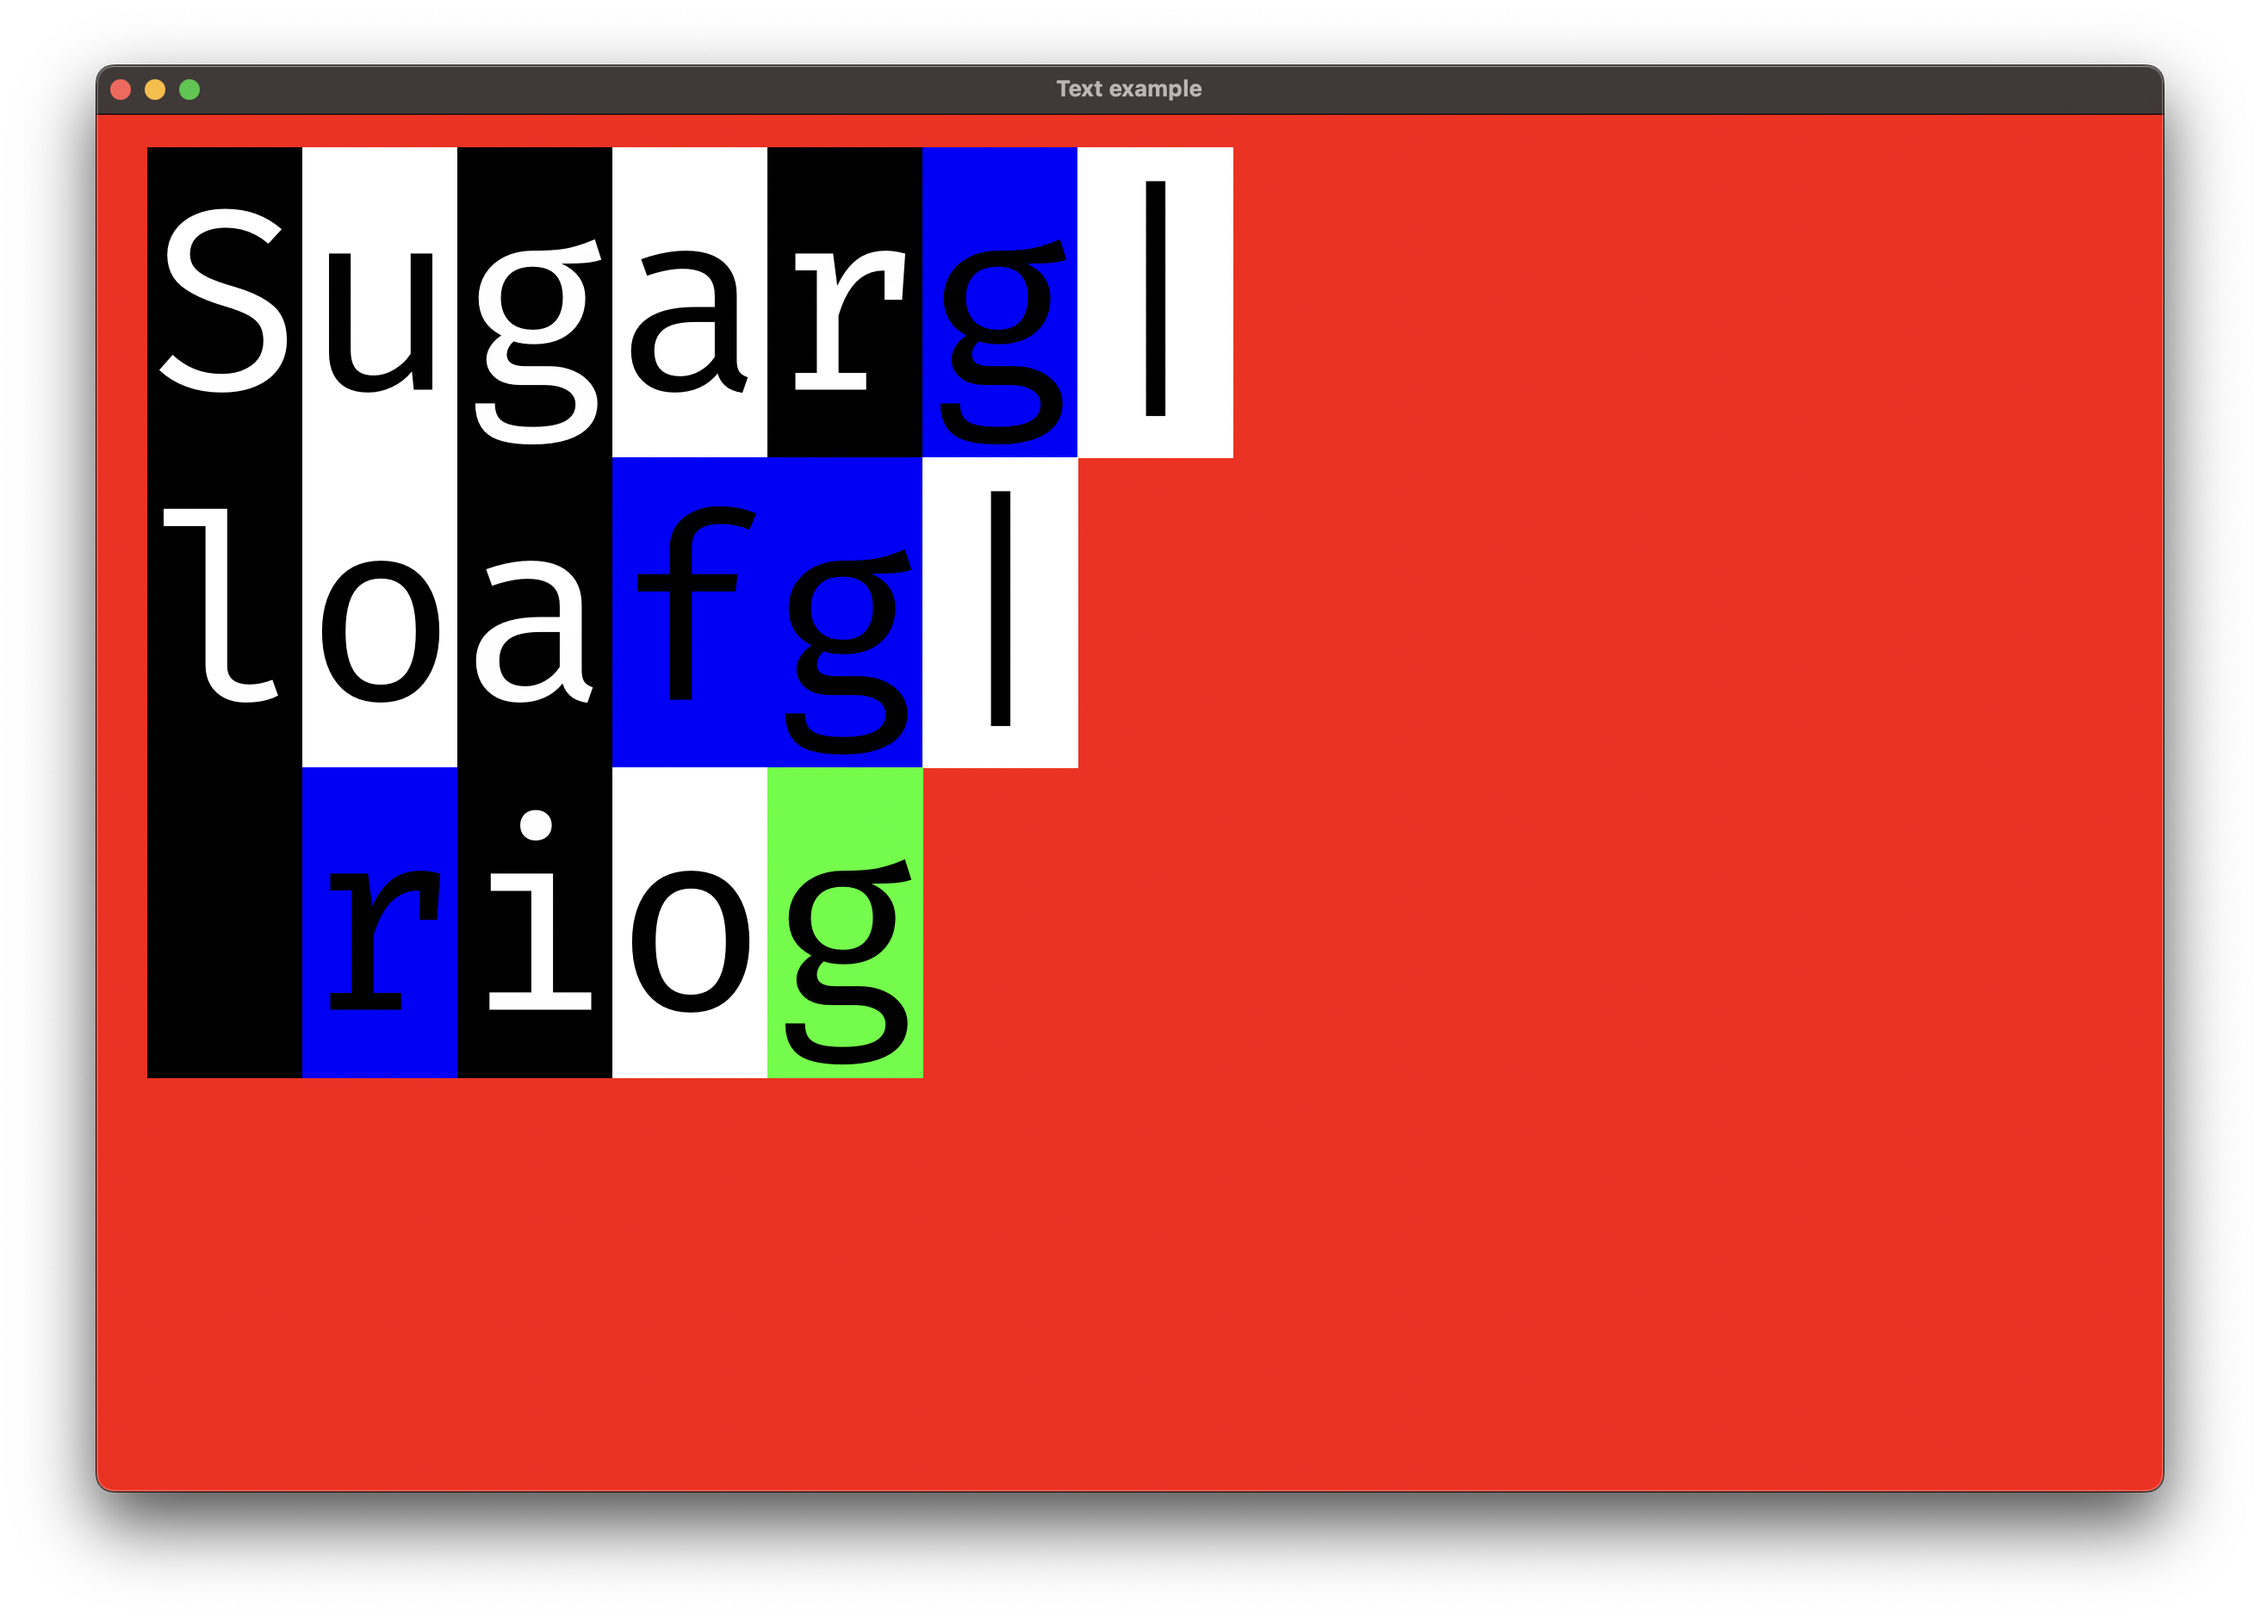
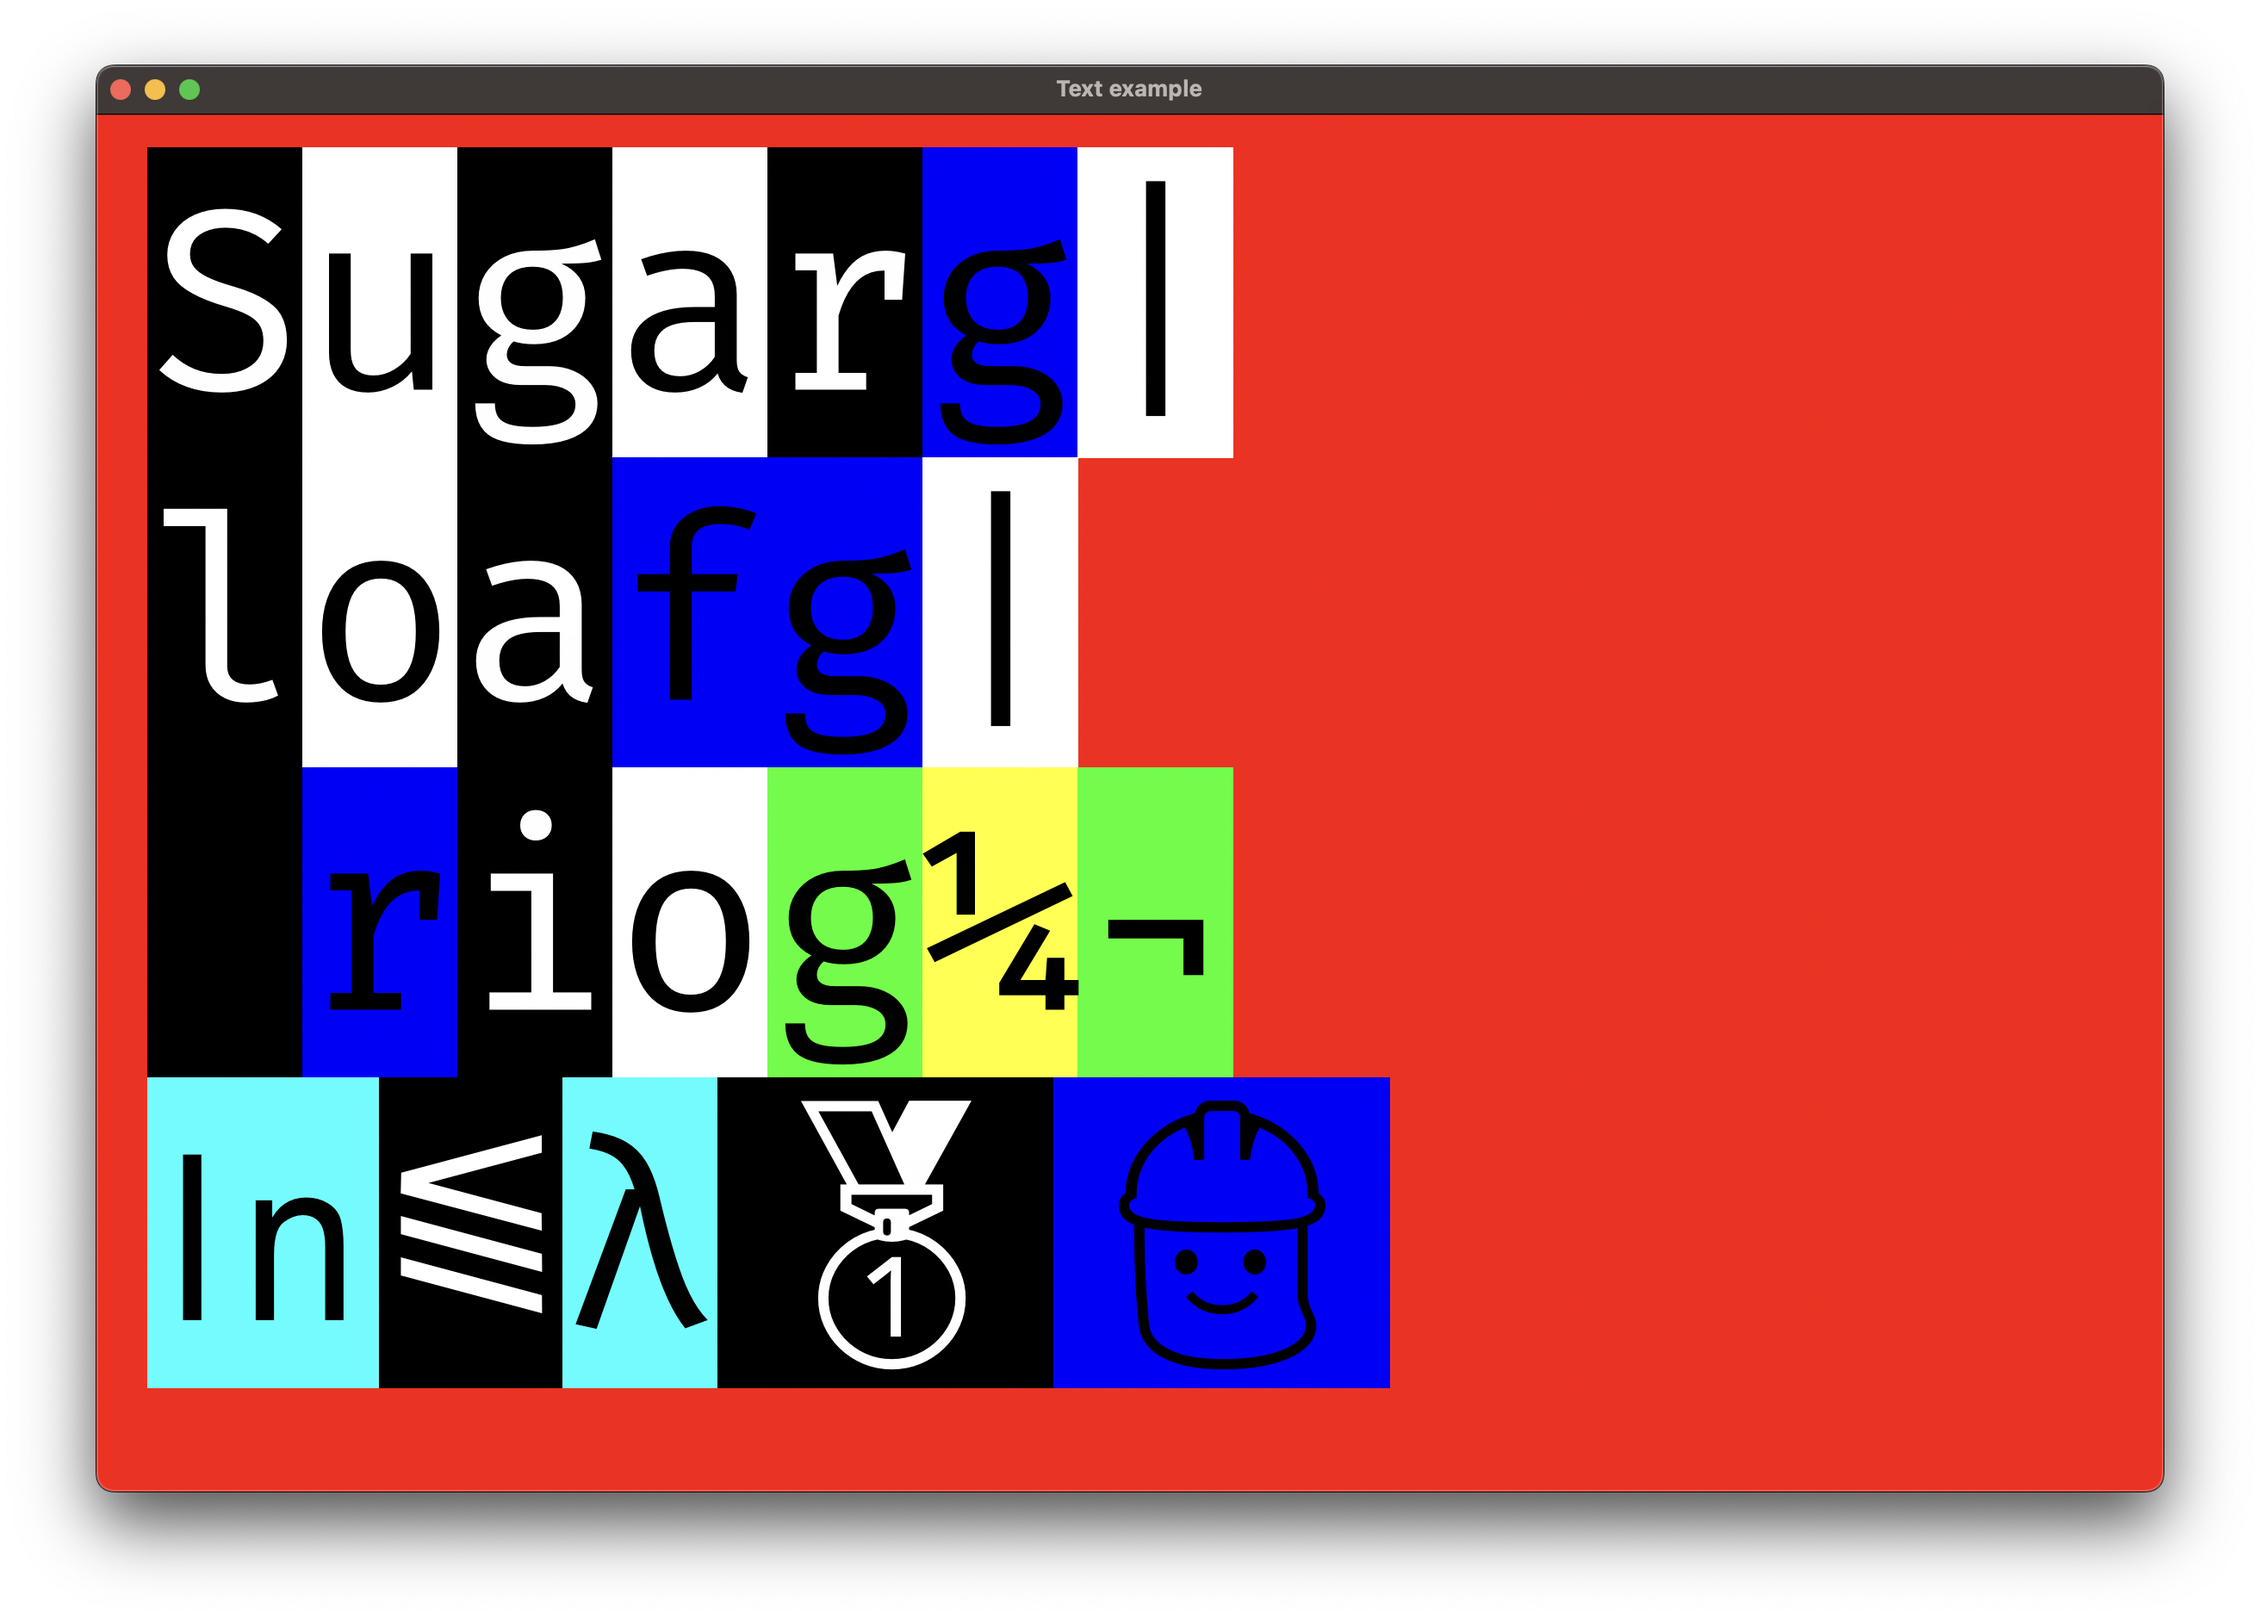
sugarloaf background fix for non-monospaced fonts (closes #39)

Changed region(s): [[0.0625, 0.4628, 0.625, 0.8638]]

diff --git a/sugarloaf/src/sugarloaf.rs b/sugarloaf/src/sugarloaf.rs
@@ -66,6 +66,14 @@ pub trait Renderable: 'static + Sized {
     );
 }
 
+#[derive(Default)]
+struct FontDimensions {
+    default: (f32, f32),
+    symbols: (f32, f32),
+    emojis: (f32, f32),
+    unicode: (f32, f32),
+}
+
 pub struct Sugarloaf {
     pub ctx: Context,
     text_brush: text::GlyphBrush<()>,
@@ -73,7 +81,7 @@ pub struct Sugarloaf {
     rects: Vec<Rect>,
     acc_line: f32,
     acc_line_y: f32,
-    sugar_dimension: (f32, f32),
+    fonts_dimensions: FontDimensions,
     background_color: wgpu::Color,
 }
 
@@ -109,7 +117,7 @@ impl Sugarloaf {
                     text_brush,
                     acc_line: 0.0,
                     acc_line_y: 0.0,
-                    sugar_dimension: (0., 0.),
+                    fonts_dimensions: FontDimensions::default(),
                     background_color: wgpu::Color::BLACK,
                 })
             }
@@ -197,13 +205,18 @@ impl Sugarloaf {
         let glyph_zero = ab_glyph::GlyphId(0);
 
         for sugar in stack.iter() {
+            let mut add_pos_x = self.fonts_dimensions.default.0;
+
             let font_id: FontId = if system.glyph_id(sugar.content) != glyph_zero {
                 FontId(0)
             } else if symbols.glyph_id(sugar.content) != glyph_zero {
+                add_pos_x = self.fonts_dimensions.symbols.0;
                 FontId(1)
             } else if emojis.glyph_id(sugar.content) != glyph_zero {
+                add_pos_x = self.fonts_dimensions.emojis.0;
                 FontId(2)
             } else if unicode.glyph_id(sugar.content) != glyph_zero {
+                add_pos_x = self.fonts_dimensions.unicode.0;
                 FontId(3)
             } else {
                 FontId(0)
@@ -222,10 +235,10 @@ impl Sugarloaf {
                     self.acc_line_y,
                 ],
                 color: sugar.background_color,
-                size: [self.sugar_dimension.0, self.sugar_dimension.0],
+                size: [add_pos_x, self.fonts_dimensions.default.0],
             });
 
-            x += (self.sugar_dimension.0) / self.ctx.scale;
+            x += add_pos_x / self.ctx.scale;
         }
 
         let section = &OwnedSection {
@@ -278,7 +291,7 @@ impl Sugarloaf {
                     depth_stencil_attachment: None,
                 });
 
-                if self.sugar_dimension == (0., 0.) {
+                if self.fonts_dimensions.default == (0., 0.) {
                     let text = vec![OwnedText::new(' ')
                         .with_font_id(FontId(0))
                         .with_color([0., 0., 0., 0.])
@@ -302,7 +315,79 @@ impl Sugarloaf {
                     if let Some(rect) = self.text_brush.glyph_bounds(section) {
                         let width = rect.max.x - rect.min.x;
                         let height = rect.max.y - rect.min.y;
-                        self.sugar_dimension = (width, height);
+                        self.fonts_dimensions.default = (width, height);
+                    };
+
+                    let text = vec![OwnedText::new('⫹')
+                        .with_font_id(FontId(1))
+                        .with_color([0., 0., 0., 0.])
+                        .with_scale(style.text_scale)];
+
+                    let section = &OwnedSection {
+                        screen_position: (
+                            style.screen_position.0,
+                            style.screen_position.1 + self.acc_line,
+                        ),
+                        bounds: style.bounds,
+                        text,
+                        layout: glyph_brush::Layout::default_single_line()
+                            .v_align(glyph_brush::VerticalAlign::Bottom),
+                    };
+
+                    self.text_brush.queue(section);
+
+                    if let Some(rect) = self.text_brush.glyph_bounds(section) {
+                        let width = rect.max.x - rect.min.x;
+                        let height = rect.max.y - rect.min.y;
+                        self.fonts_dimensions.symbols = (width, height);
+                    };
+
+                    let text = vec![OwnedText::new('🥇')
+                        .with_font_id(FontId(2))
+                        .with_color([0., 0., 0., 0.])
+                        .with_scale(style.text_scale)];
+
+                    let section = &OwnedSection {
+                        screen_position: (
+                            style.screen_position.0,
+                            style.screen_position.1 + self.acc_line,
+                        ),
+                        bounds: style.bounds,
+                        text,
+                        layout: glyph_brush::Layout::default_single_line()
+                            .v_align(glyph_brush::VerticalAlign::Bottom),
+                    };
+
+                    self.text_brush.queue(section);
+
+                    if let Some(rect) = self.text_brush.glyph_bounds(section) {
+                        let width = rect.max.x - rect.min.x;
+                        let height = rect.max.y - rect.min.y;
+                        self.fonts_dimensions.emojis = (width, height);
+                    };
+
+                    let text = vec![OwnedText::new('㏑')
+                        .with_font_id(FontId(3))
+                        .with_color([0., 0., 0., 0.])
+                        .with_scale(style.text_scale)];
+
+                    let section = &OwnedSection {
+                        screen_position: (
+                            style.screen_position.0,
+                            style.screen_position.1 + self.acc_line,
+                        ),
+                        bounds: style.bounds,
+                        text,
+                        layout: glyph_brush::Layout::default_single_line()
+                            .v_align(glyph_brush::VerticalAlign::Bottom),
+                    };
+
+                    self.text_brush.queue(section);
+
+                    if let Some(rect) = self.text_brush.glyph_bounds(section) {
+                        let width = rect.max.x - rect.min.x;
+                        let height = rect.max.y - rect.min.y;
+                        self.fonts_dimensions.unicode = (width, height);
                     };
                 }
 

diff --git a/sugarloaf/examples/text.rs b/sugarloaf/examples/text.rs
@@ -173,11 +173,54 @@ async fn main() {
                         foreground_color: [0.0, 0.0, 0.0, 1.0],
                         background_color: [0.0, 1.0, 0.0, 1.0],
                     },
+                    Sugar {
+                        content: '¼',
+                        foreground_color: [0.0, 0.0, 0.0, 1.0],
+                        background_color: [1.0, 1.0, 0.0, 1.0],
+                    },
+                    Sugar {
+                        content: '¬',
+                        foreground_color: [0.0, 0.0, 0.0, 1.0],
+                        background_color: [0.0, 1.0, 0.0, 1.0],
+                    },
+                ];
+
+                let special = vec![
+                    // Font Unicode (unicode font)
+                    Sugar {
+                        content: '㏑',
+                        foreground_color: [0.0, 0.0, 0.0, 1.0],
+                        background_color: [0.0, 1.0, 1.0, 1.0],
+                    },
+                    // Font Symbol (apple symbols font)
+                    Sugar {
+                        content: '⫹',
+                        foreground_color: [1.0, 1.0, 1.0, 1.0],
+                        background_color: [0.0, 0.0, 0.0, 1.0],
+                    },
+                    // Font Regular (firamono)
+                    Sugar {
+                        content: 'λ',
+                        foreground_color: [0.0, 0.0, 0.0, 1.0],
+                        background_color: [0.0, 1.0, 1.0, 1.0],
+                    },
+                    // Font Emojis
+                    Sugar {
+                        content: '🥇',
+                        foreground_color: [1.0, 1.0, 1.0, 1.0],
+                        background_color: [0.0, 0.0, 0.0, 1.0],
+                    },
+                    Sugar {
+                        content: '👷',
+                        foreground_color: [0.0, 0.0, 0.0, 1.0],
+                        background_color: [0.0, 0.0, 1.0, 1.0],
+                    },
                 ];
 
                 sugarloaf.stack(sugar, style);
                 sugarloaf.stack(loaf, style);
                 sugarloaf.stack(rio, style);
+                sugarloaf.stack(special, style);
                 sugarloaf.render();
             }
             _ => {

diff --git a/CHANGELOG.md b/CHANGELOG.md
@@ -5,8 +5,8 @@
 - `log-level` as configurable (`DEBUG`, `INFO`, `TRACE`, `ERROR`, `WARN` and `OFF`). `OFF` by default.
 - Introduction of rendering engine called Sugarloaf.
 - System font loader (tested and implemented for MacOs).
-- Font loader with not native emoji font.
-- Rect renderer based on provided color (text background).
+- Font loader with not native emoji font (emojis aren't stable yet).
+- Rect renderer based on provided color (text background), stabilized for monospaced fonts.
 
 ## 0.0.1
 

diff --git a/sugarloaf/README.md b/sugarloaf/README.md
@@ -4,7 +4,7 @@ Sugarloaf is Rio rendering engine, desgined to be multiplatform. It is based on 
 
 ## Examples
 
-| ![Demo big text](resources/demo-text-small.png) | ![Demo small text](resources/demo-text-big.png) |
+| ![Demo small text](resources/demo-text-small.png) | ![Demo big text](resources/demo-text-big.png) |
 | ----------- | ----------- |
 | ![Demo Rect](resources/demo-rect.png) | ... |
 

diff --git a/README.md b/README.md
@@ -12,6 +12,12 @@
 
 Note: Emojis are rendered with Noto Emoji.
 
+## Sugarloaf
+
+Rio is built over a custom renderer called [Sugarloaf](https://crates.io/crates/sugarloaf), which is responsible for font and style rendering. Sugarloaf demo:
+
+![Demo Sugarloaf](sugarloaf/resources/demo-text-big.png)
+
 ## Summary
 
 - [About Rio](#about-rio)
